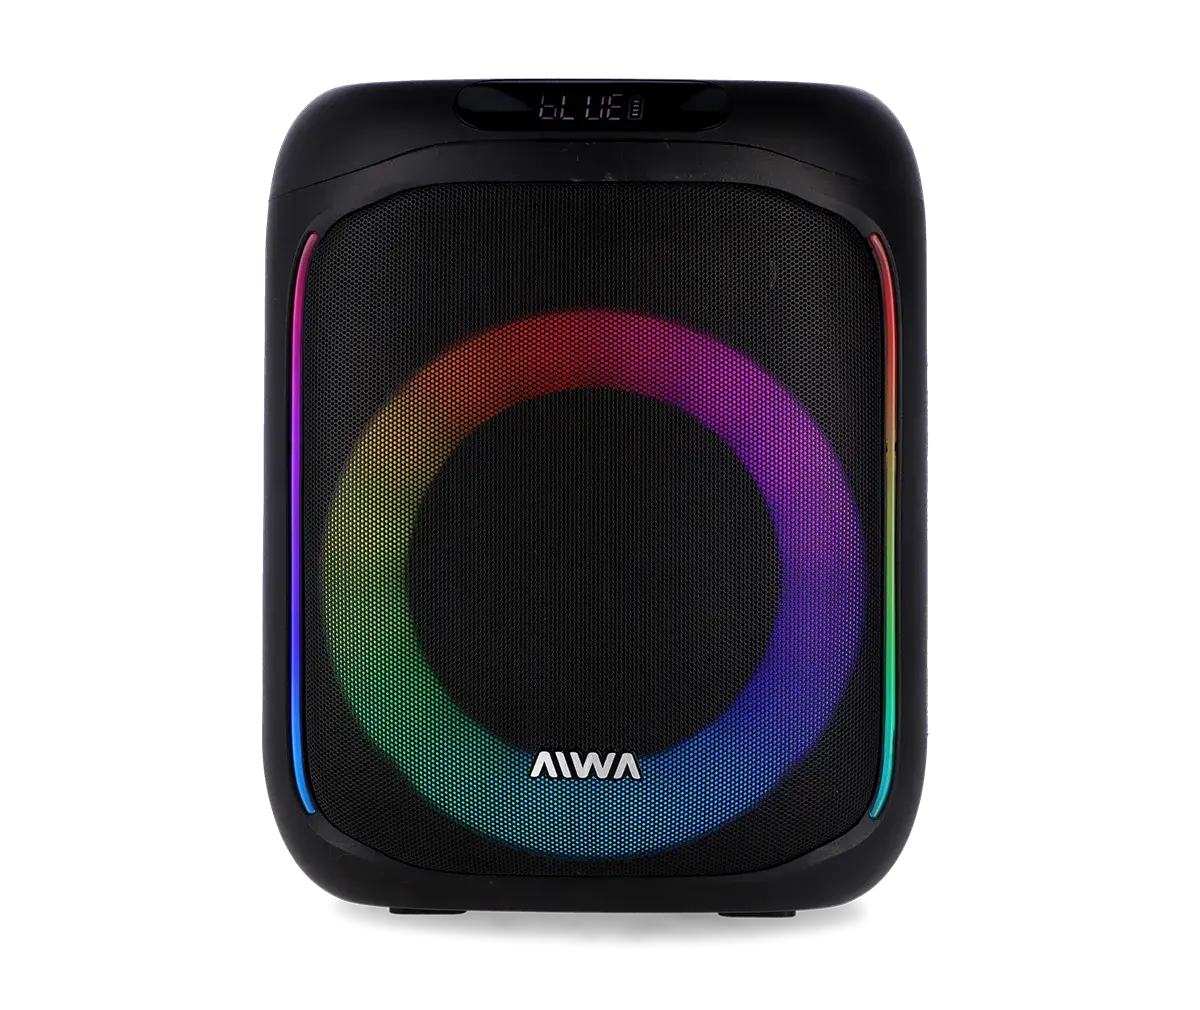
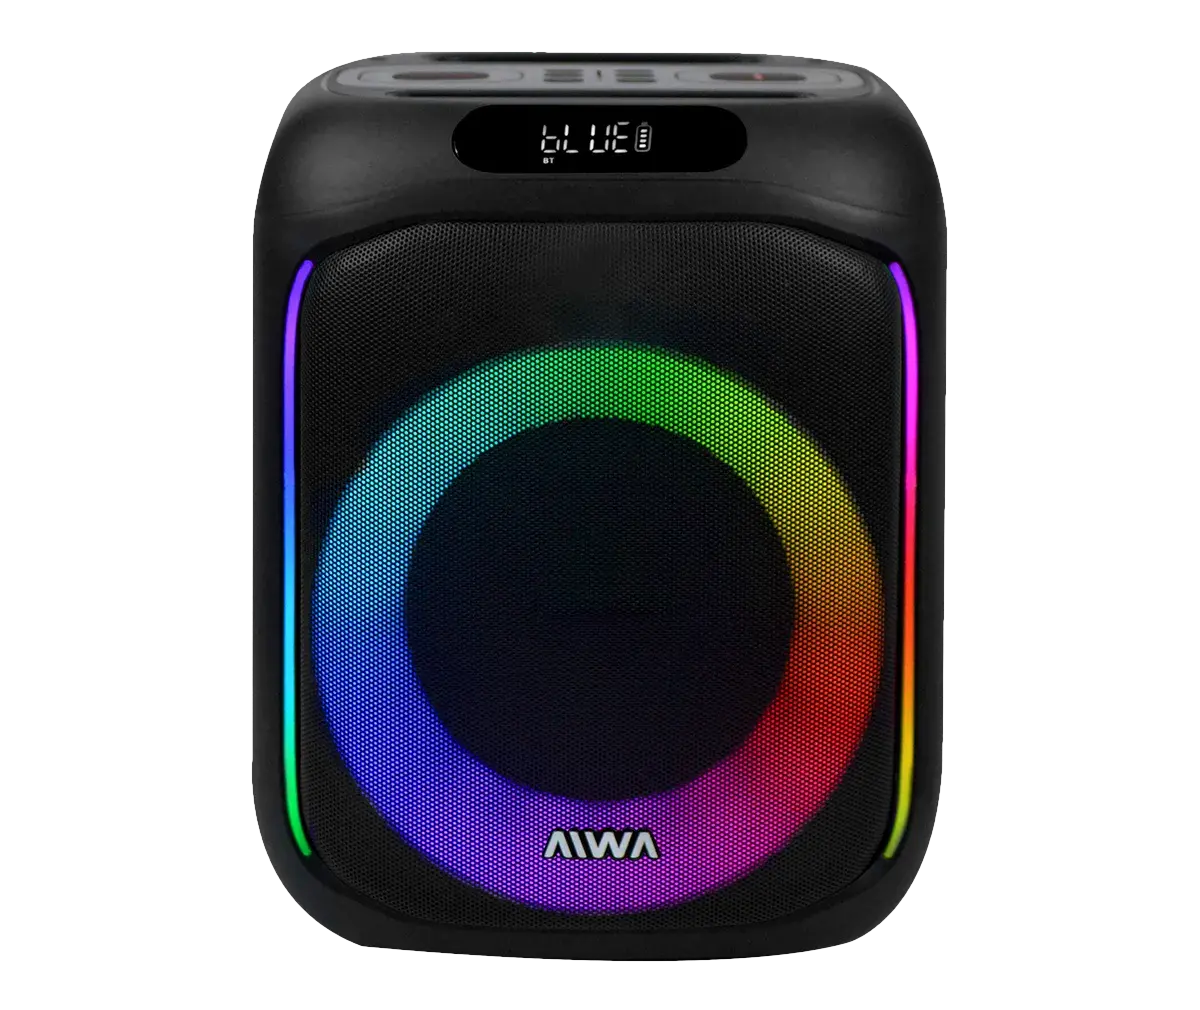
edit product finish

diff --git a/content/products.js b/content/products.js
@@ -7258,6 +7258,16 @@ export const products = [
         desc: `Elegí si queres acompañar tu música con sus brillantes luces rgb, posee varios modos para que seleccionés el que va más con vos.`,
       },
       {
+        title: `Entrada para Micrófono`,
+        img: fileserver + `/banners/mic2016a.webp`,
+        desc: `Sumá un micrófono y disfrutá con tus amigos bailando y cantando toda la noche.`,
+      },
+      {
+        title: `Controlá todo`,
+        img: fileserver + `/banners/reg2016a.webp`,
+        desc: `Posee una gran cantidad de reguladores para que tu música suene exactamente como esperás.`,
+      },
+      {
         title: `True Wireless Stereo`,
         img: fileserver + `/banners/tws2016.webp`,
         desc: `Conectá dos parlantes iguales y experimentá la combinación de potencia y sonido estéreo real, ¡no querrás volver a usar sólo uno!`,
@@ -7340,17 +7350,12 @@ export const products = [
       {
         // Potencia
         id: 2,
-        value: "5000 PMPO",
+        value: "5000W PMPO",
       },
       {
         // Batería
         id: 10,
         value: "Interna Recargable 7,4v / 2400mAh",
-      },
-      {
-        // Funciones
-        id: 13,
-        value: "Bluetooth, TWS",
       },
       {
         // Reguladores
@@ -7368,11 +7373,6 @@ export const products = [
         value: "De luces RGB",
       },
       {
-        // Otras características
-        id: 15,
-        value: "Empuñadura de transporte, Mobile Holder",
-      },
-      {
         // Medidas del producto
         id: 16,
         value: "24 x 29.5 x 23 cm",
@@ -7382,10 +7382,16 @@ export const products = [
         id: 17,
         value: "28.6 x 37.6 x 27.6 cm",
       },
+      { id: 18, value: "3 kg" }, // Peso
+      { id: 54, value: "Bluetooth 5.0" }, // Bluetooth
+      { id: 53, value: "Si" }, // Funcion
+      { id: 55, value: "Si" }, // Peso
+      { id: 56, value: "Si" }, // Emp de Transp
+      { id: 6, value: "Si, LED" }, // Mobile Holder
       {
         // EAN
         id: 19,
-        value: "7798111354688",
+        value: "7798111354701",
       },
     ],
     includes: [
@@ -7423,6 +7429,16 @@ export const products = [
         title: `Efectos de Luces`,
         img: fileserver + `/banners/luces2016.webp`,
         desc: `Elegí si queres acompañar tu música con sus brillantes luces rgb, posee varios modos para que seleccionés el que va más con vos.`,
+      },
+      {
+        title: `Entrada para Micrófono`,
+        img: fileserver + `/banners/mic2016b.webp`,
+        desc: `Sumá un micrófono y disfrutá con tus amigos bailando y cantando toda la noche.`,
+      },
+      {
+        title: `Controlá todo`,
+        img: fileserver + `/banners/reg2016b.webp`,
+        desc: `Posee una gran cantidad de reguladores para que tu música suene exactamente como esperás.`,
       },
       {
         title: `True Wireless Stereo`,
@@ -7507,17 +7523,12 @@ export const products = [
       {
         // Potencia
         id: 2,
-        value: "5000 PMPO",
+        value: "5000W PMPO",
       },
       {
         // Batería
         id: 10,
         value: "Interna Recargable 7,4v / 2400mAh",
-      },
-      {
-        // Funciones
-        id: 13,
-        value: "Bluetooth, TWS",
       },
       {
         // Reguladores
@@ -7535,11 +7546,6 @@ export const products = [
         value: "De luces RGB",
       },
       {
-        // Otras características
-        id: 15,
-        value: "Empuñadura de transporte, Mobile Holder",
-      },
-      {
         // Medidas del producto
         id: 16,
         value: "24 x 29.5 x 23 cm",
@@ -7549,10 +7555,16 @@ export const products = [
         id: 17,
         value: "28.6 x 37.6 x 27.6 cm",
       },
+      { id: 18, value: "3 kg" }, // Peso
+      { id: 54, value: "Bluetooth 5.0" }, // Bluetooth
+      { id: 53, value: "Si" }, // Funcion
+      { id: 55, value: "Si" }, // Peso
+      { id: 56, value: "Si" }, // Emp de Transp
+      { id: 6, value: "Si, LED" }, // Mobile Holder
       {
         // EAN
         id: 19,
-        value: "7798111354688",
+        value: "7798111354718",
       },
     ],
     includes: [
@@ -10593,6 +10605,21 @@ export const products = [
         desc: `Peso ligero y medidas compactas permiten un uso práctico y un transporte sencillo. Podés disfrutar de pelis estés donde estés, o participar de tus reuniones de trabajo con todos tus archivos a tu alcance.`,
       },
       {
+        title: `+Potencia, +Memoria`,
+        img: fileserver + `/banners/proce1413.webp`,
+        desc: `Posee la potencia suficiente para tus tareas diarias ¡y más! Almacená miles de fotos, videos, audios y documentos.`,
+      },
+      {
+        title: `Más pantalla`,
+        img: fileserver + `/banners/pantalla-note.webp`,
+        desc: `Su pantalla posee bordes finos para que el contenido que te interesa esté más visible. Alta definición y millones de colores para que tengas una experiencia única.`,
+      },
+      {
+        title: `Cámara web`,
+        img: fileserver + `/banners/camaranote.webp`,
+        desc: `Podés tener reuniones de trabajo, ver clases online, hacer un meet con tus amigos y familiares, y mucho más.`,
+      },
+      {
         title: `¡Conectate!`,
         img: fileserver + `/banners/puertosna1431.webp`,
         desc: `Posee 3 puertos USB (2 tipo A, 1 tipo C), 1 puerto HDMI, slot para tarjetas TF/MicroSD, 1 puerto de red Ethernet, ranura para candados Kensington y puerto para auriculares 3.5mm (Audio y micrófono).`,
@@ -10617,7 +10644,7 @@ export const products = [
       { id: 82 }, // SD usb 
     ],
     features: [
-      { id: 41, value: `14"` }, // Tamaño de pantalla
+      { id: 41, value: `14.1"` }, // Tamaño de pantalla
       { id: 42, value: `1920*1080` }, // Resolucion
       { id: 43, value: `Intel Core i3 - 6157U (2.4GHz)` }, // Procesador
       { id: 44, value: `4GB` }, // Memoria RAM
@@ -10673,6 +10700,21 @@ export const products = [
         desc: `Posee 3 puertos USB (2 tipo A, 1 tipo C), 1 puerto HDMI, slot para tarjetas TF/MicroSD, 1 puerto de red Ethernet, ranura para candados Kensington y puerto para auriculares 3.5mm (Audio y micrófono).`,
       },
       {
+        title: `+Potencia, +Memoria`,
+        img: fileserver + `/banners/proce1431.webp`,
+        desc: `Posee la potencia suficiente para tus tareas diarias ¡y más! Almacená miles de fotos, videos, audios y documentos.`,
+      },
+      {
+        title: `Más pantalla`,
+        img: fileserver + `/banners/pantalla-note.webp`,
+        desc: `Su pantalla posee bordes finos para que el contenido que te interesa esté más visible. Alta definición y millones de colores para que tengas una experiencia única.`,
+      },
+      {
+        title: `Cámara web`,
+        img: fileserver + `/banners/camaranote.webp`,
+        desc: `Podés tener reuniones de trabajo, ver clases online, hacer un meet con tus amigos y familiares, y mucho más.`,
+      },
+      {
         title: "Potencia de sobra",
         img: fileserver + "/banners/poderna1431.webp",
         desc: "Está equipada con hardware de última generación. Instalá y usá tus programas preferidos sin inconvenientes.",
@@ -10702,7 +10744,7 @@ export const products = [
       { id: 82 }, // SD usb 
     ],
     features: [
-      { id: 41, value: `14"` }, // Tamaño de pantalla
+      { id: 41, value: `14.1"` }, // Tamaño de pantalla
       { id: 42, value: `1920*1080` }, // Resolucion
       { id: 43, value: `Intel Core i3 1005G1 10th Gen. 3.4GHz` }, // Procesador
       { id: 44, value: `8GB` }, // Memoria RAM

diff --git a/content/features.js b/content/features.js
@@ -35,6 +35,8 @@ const features = [ // Características de productos ORDENADAS
   { id: 2, name: 'Potencia' },
   { id: 9, name: 'Conectividad' },
   { id: 13, name: 'Funciones' },
+  { id: 53, name: 'True Wireless Stereo' },
+  { id: 54, name: 'Conectividad' },
   { id: 5, name: 'Reguladores' },
   { id: 8, name: 'Entradas' },
   { id: 12, name: 'Luces' },
@@ -49,6 +51,8 @@ const features = [ // Características de productos ORDENADAS
   { id: 11, name: 'Duración de Batería' },
   { id: 24, name: 'Cuerpo' },
   { id: 15, name: 'Otras Características' },
+  { id: 55, name: 'Empuñadura de Transp.' },
+  { id: 56, name: 'Mobile Holder' },
   { id: 16, name: 'Medidas del Producto' },
   { id: 17, name: 'Medidas de la Caja' },
   { id: 18, name: 'Peso' },
